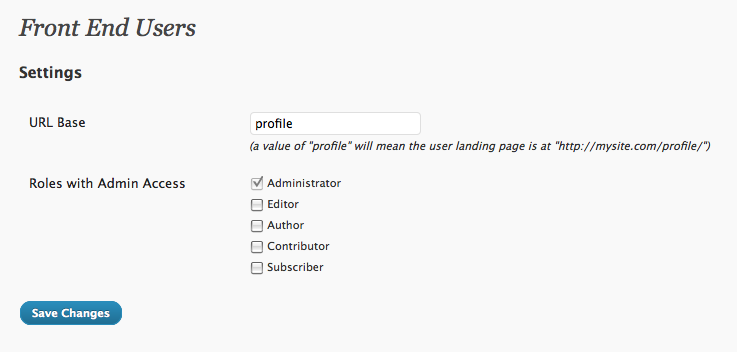
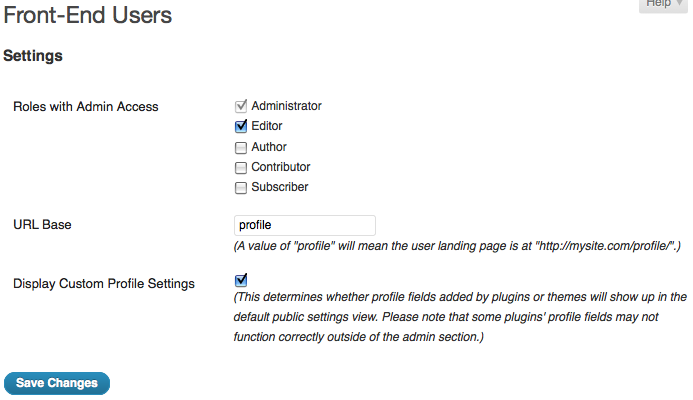
Allowing custom profile fields to show up in the default settings view

diff --git a/lib/front_end_users.php b/lib/front_end_users.php
@@ -16,6 +16,7 @@ class FrontEndUsers {
 		global $wp_rewrite;
 		$wp_rewrite->flush_rules();
 		add_option('front_end_users_url_path', 'profile');
+		add_option('front_end_users_display_custom_profile_settings', 0);
 	}
 	
 	public function init() {
@@ -50,7 +51,8 @@ class FrontEndUsers {
 		$options = get_option('front_end_users_options');
 		$defaults = array(
 			'url_path' => 'profile',
-			'roles_with_admin_access' => array($this->administrator_role_key)
+			'roles_with_admin_access' => array($this->administrator_role_key),
+			'display_custom_profile_settings' => 0
 		);
 		
 		if (empty($options)) {
@@ -62,9 +64,10 @@ class FrontEndUsers {
 		
 		$default_settings = array(
 			'404_include_path' => get_theme_root().'/'.get_template().'/404.php',
-			'views' => $default_views,
+			'display_custom_profile_settings' => $options['display_custom_profile_settings'],
 			'roles_with_admin_access' => $options['roles_with_admin_access'],
 			'url_path' => $options['url_path'],
+			'views' => $default_views,
 			'views_directory' => $this->plugin_file_path.'views/'
 		);
 
@@ -82,8 +85,9 @@ class FrontEndUsers {
 	public function admin_init() {
 		register_setting('front-end-users', 'front_end_users_options', array($this, 'validate_options'));
 		add_settings_section('front-end-users-main', 'Settings', array($this, 'settings_text'), 'front-end-users');
-		add_settings_field('url_path', 'URL Base', array($this, 'settings_input_url_path'), 'front-end-users', 'front-end-users-main');
 		add_settings_field('roles_with_admin_access', 'Roles with Admin Access', array($this, 'settings_input_roles_with_admin_access'), 'front-end-users', 'front-end-users-main');
+		add_settings_field('url_path', 'URL Base', array($this, 'settings_input_url_path'), 'front-end-users', 'front-end-users-main');
+		add_settings_field('display_custom_profile_settings', 'Display Custom Profile Settings', array($this, 'settings_input_display_custom_profile_settings'), 'front-end-users', 'front-end-users-main');
 	}
 	
 	private function init_views() {
@@ -566,7 +570,9 @@ class FrontEndUsers {
 			if (!is_wp_error($errors)) {
 			
 				do_action('feu_after_update_user', $user, $_POST);
-				
+				if ($this->get_display_custom_profile_settings()) {
+					do_action('personal_options_update', $user_id);
+				}
 				$redirect_url = feu_get_url('settings');
 				wp_redirect($redirect_url.'?updated=true');
 				die();
@@ -614,6 +620,10 @@ class FrontEndUsers {
 		
 	}
 	
+	public function get_display_custom_profile_settings() {
+		return $this->settings['display_custom_profile_settings'];
+	}
+	
 	public function enqueue_user_avatar_resources() {
 		// These are needed for user_avatar_form()
 		wp_enqueue_script('thickbox');
@@ -650,6 +660,9 @@ class FrontEndUsers {
 		if (empty($options['url_path'])) {
 			$options['url_path'] = 'profile';
 		}
+		if (!isset($options['display_custom_profile_settings'])) {
+			$options['display_custom_profile_settings'] = 0;
+		}
 		$this->flush_rules();
 		return $options;
 	}
@@ -660,8 +673,16 @@ class FrontEndUsers {
 	
 	public function settings_input_url_path() {
 		$options = get_option('front_end_users_options');
-		echo '<input id="url_path" name="front_end_users_options[url_path]" type="text" value="'.esc_attr($options['url_path']).'" />';
-		echo '<br /><em>(a value of "profile" will mean the user landing page is at "http://mysite.com/profile/")</em>';
+		echo '<input type="text" id="url_path" name="front_end_users_options[url_path]" value="'.esc_attr($options['url_path']).'" />';
+		echo '<br /><em>(A value of "profile" will mean the user landing page is at "http://mysite.com/profile/".)</em>';
+	}
+	
+	public function settings_input_display_custom_profile_settings() {
+		$options = get_option('front_end_users_options');
+		$checked = isset($options['display_custom_profile_settings']) ?
+			($options['display_custom_profile_settings'] ? ' checked="checked"' : '') : '';
+		echo '<input type="checkbox" id="display_custom_profile_settings" name="front_end_users_options[display_custom_profile_settings]" value="1"'.$checked.' />';
+		echo '<br /><em>(This determines whether profile fields added by plugins or themes will show up in the default public settings view. Please note that some plugins\' profile fields may not function correctly outside of the admin section.)</em>';
 	}
 	
 	public function settings_input_roles_with_admin_access() {

diff --git a/views/settings.php b/views/settings.php
@@ -125,6 +125,12 @@ feu_header();
 			
 			</fieldset>
 			
+			<?php if ($feu->get_display_custom_profile_settings()): ?>
+			
+				<?php do_action( 'show_user_profile', $user ); ?>
+			
+			<?php endif; ?>
+			
 			<div class="submit">
 			
 				<input type="hidden" name="user_id" value="<?php echo esc_attr($user->ID); ?>" />
